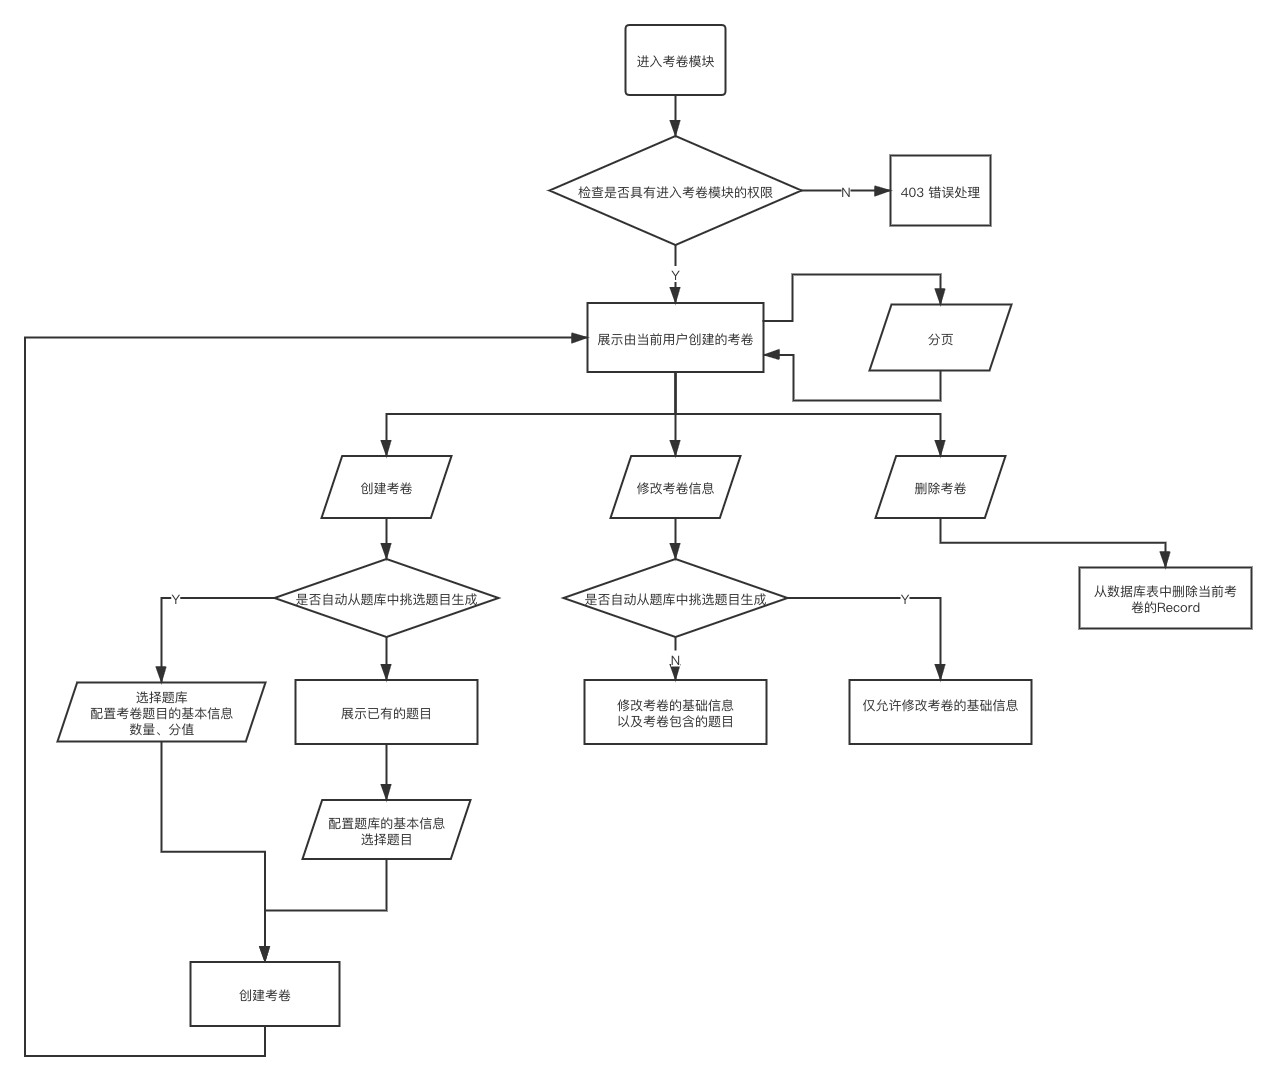
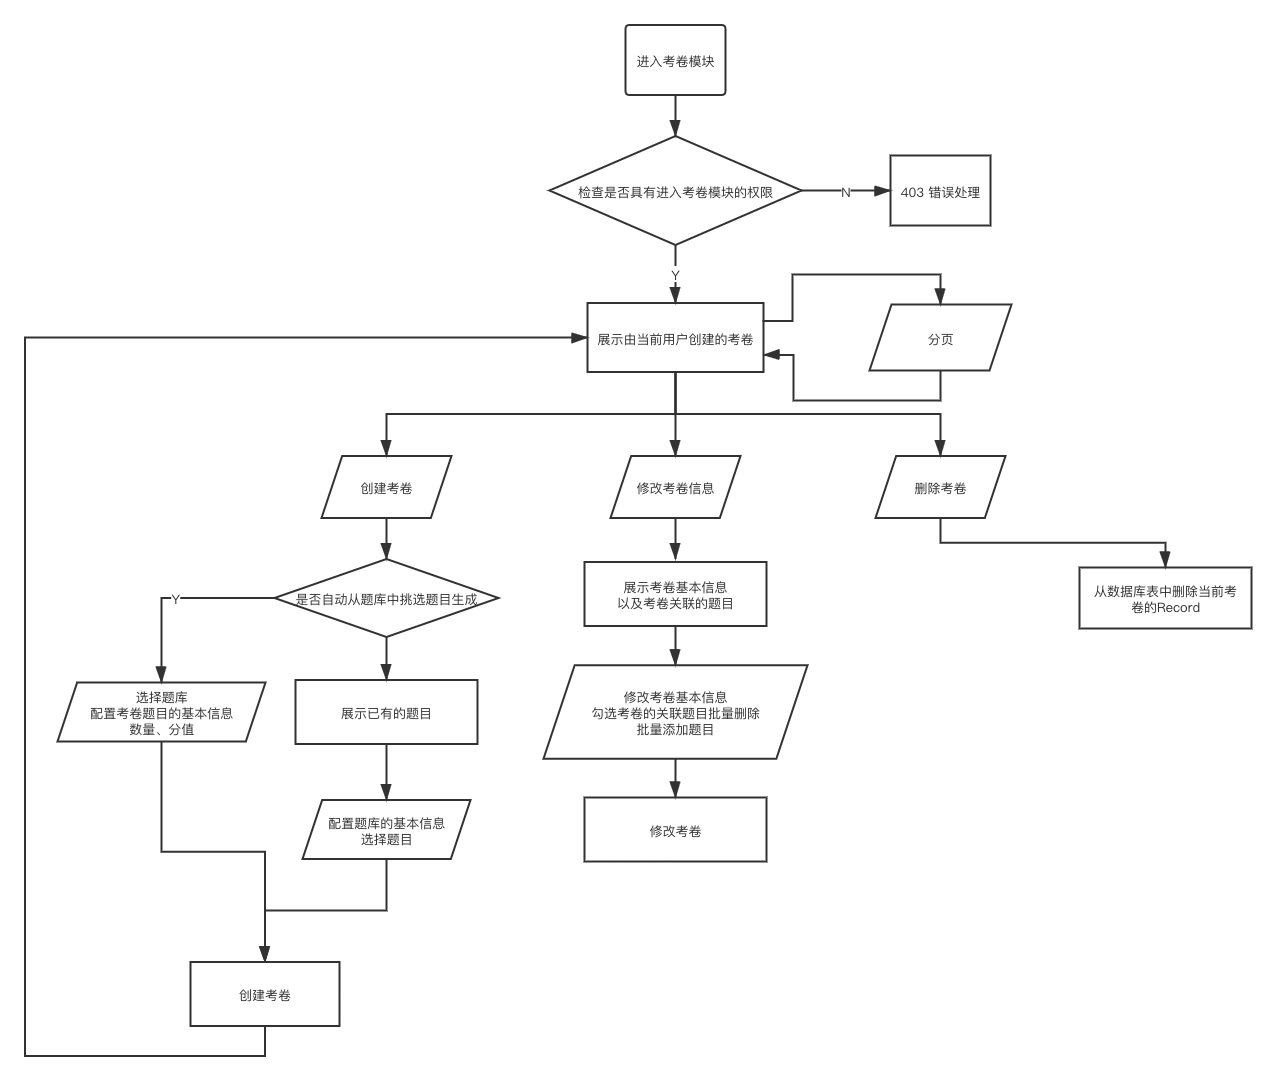
考卷模块

diff --git a/草稿/draft.md b/草稿/draft.md
@@ -8,7 +8,7 @@
 
 ## Abstract
 
-#### Keyword
+#### Keywords
 
 Block-chain; Fisco; Online Exam-system; SpringBoot; Vue;
 
@@ -491,7 +491,7 @@ ResultVO<QuestionPageVo> getQuestionList(@RequestParam("pageNo") Integer pageNo,
 
 修改题库信息，可以修改题库的名称，或新增、删除其中包含的题目。
 
-删除题库的操作，会将所有当前题库下的题目，与之解除关联。在具体的题库-题目 mapper 表中删除对应的映射。
+删除题库的操作，会将所有当前题库下的题目，与之解除关联。在具体的题库-题目 mapper 表中删除对应的映射。而不会删除具体的题目，即使已经没有任何题库与这些题目关联。但是这些题目仍是会在题库添加的时候，可选展示待加入。
 
 新增题库的操作则会要求填写题库的基本信息，而后可以选择需要添加入题库的题目。也可以在创建成功以后，再通过修改题库的功能，对题库的题目做管理。
 
@@ -516,6 +516,39 @@ ResultVO<String> questionUpdate(@RequestBody QuestionVo questionVo) {
 ![题库模块](../_images/题库模块.png)
 
 ### 4.2 考卷模块
+
+进入考卷模块前需要先检查是否有进入的权限，如果没有则需要一定的 403 反馈。正常操作流程下，没有权限是无法通过点击事件进入考卷模块，但也可能通过浏览器的地址栏 URL，通过路由器强行渲染出对应的题库 View 组件，因此仍是需要在进入考卷模块前进行权限检查。
+
+```js
+export default {
+  ... ...
+  computed: {
+      ... ...
+      storeUserInfo: function(){
+          return TokenManager.getToken().userInfo
+      },
+      ... ...
+  },
+  methods: {
+      queryExamPaper: function(pageIndex){
+          ... ...
+          const userId = this.storeUserInfo?.id
+          ... ...
+          Requester.post(...)
+          ... ...
+      }
+  },
+  ... ...
+}
+```
+
+如果有权限进入考卷模块，则需要从 store 中获取当前用户的 id，并传入后端，并携带分页所需要的 current、pageSize 等信息。
+
+在页面内可以进行创建考卷的操作。首先需要填写一些考卷的基本信息，例如考卷名称等。然后，需要去选择是否从题库中自动生成考卷的题目。如果选择从题库中自动生成，需要选择对应的题库，并且配置需要多少的客观题，及其中具体的题型和分值。如果需要手动选择添加的题目，则会展示系统中已有的题目，供手动选择。配置好考卷的基础信息以及具体的题目或选择的题库后，则向后端发起创建考卷的请求。生成考卷成功后，返回展示当前用户创建的考卷列表。
+
+修改考卷的操作，可以修改考卷的基本信息，也可通过勾选框批量删除考题。或是通过弹窗查看未添加的考题，批量勾选添加。
+
+删除考卷的操作，仅仅只删除考卷在数据库表中的记录，与考卷相关联的题目并不会被删除，即便是已经不归属与任何的考卷。
 
 ![考卷模块](../_images/考卷模块.png)
 
